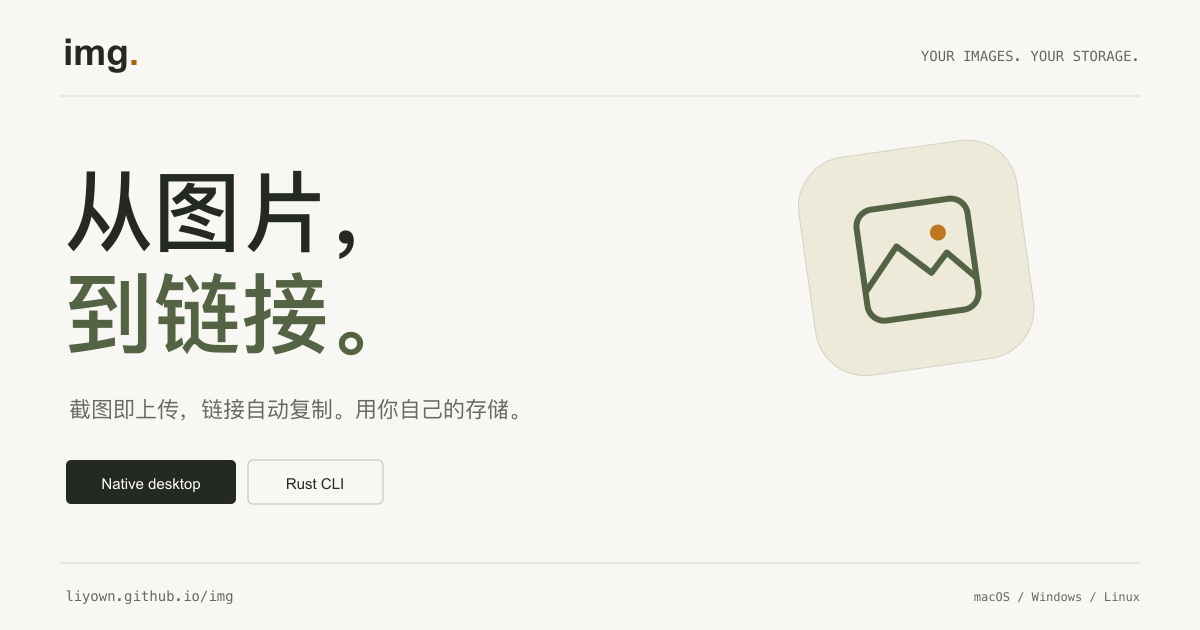
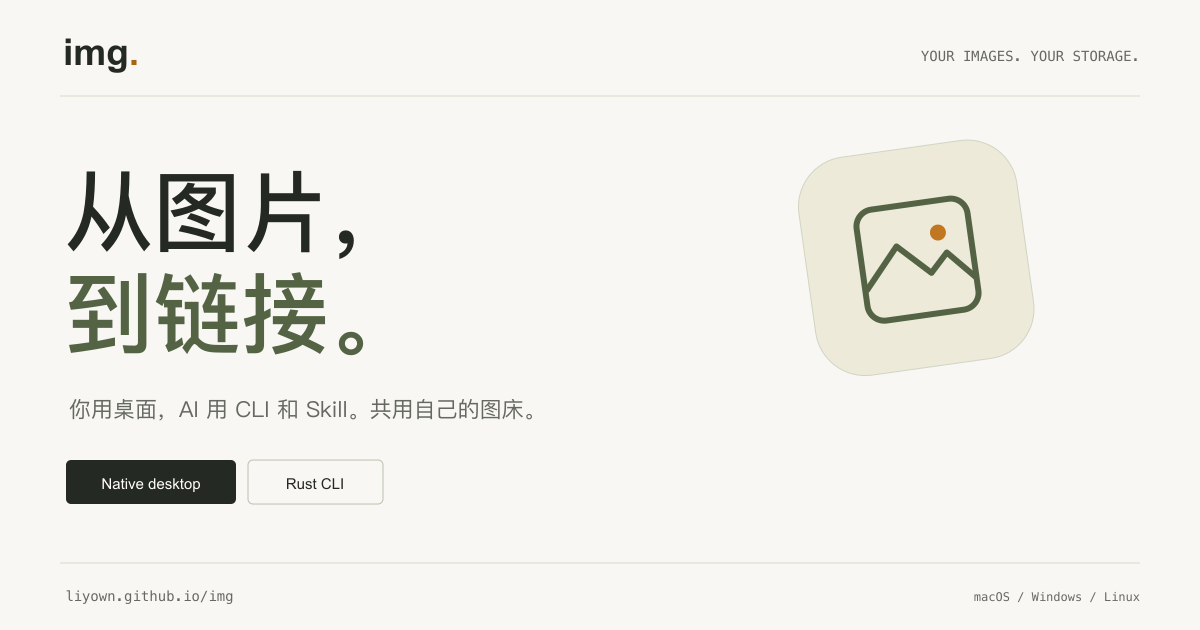
docs: clarify switching benefits and native CLI agent workflows

Changed region(s): [[0.0617, 0.6333, 0.4317, 0.6635]]

diff --git a/README.en.md b/README.en.md
@@ -1,8 +1,8 @@
 <div align="center">
   <img src="site/public/favicon.svg" width="72" alt="img">
   <h1>img</h1>
-  <p><strong>Capture an image. Paste a link. Keep writing.</strong></p>
-  <p>Upload to your own storage and get links ready for your next post.<br>A native Rust desktop app + standalone CLI for macOS, Windows, and Linux.</p>
+  <p><strong>Upload a screenshot and paste the link.</strong></p>
+  <p>Use desktop shortcuts yourself. Give your AI agent a native CLI and Skill.<br>Both use the same storage configuration on macOS, Windows, and Linux.</p>
   <p><a href="https://liyown.github.io/img/en/install/#gui"><strong>Download desktop</strong></a> · <a href="https://liyown.github.io/img/en/install/#cli">Download CLI</a> · <a href="https://liyown.github.io/img/en/">Website</a> · <a href="https://liyown.github.io/img/en/docs/">Docs</a> · <a href="README.md">中文</a></p>
 
 [![Desktop release](https://github.com/liyown/img/actions/workflows/desktop-release.yml/badge.svg)](https://github.com/liyown/img/actions/workflows/desktop-release.yml)
@@ -13,22 +13,35 @@
 
 [![img native gallery: find images, preview, and copy links; macOS demo](site/public/screenshots/gallery.webp)](https://liyown.github.io/img/en/install/#gui)
 
-## Fewer steps between an image and your next sentence
+## Why switch to img
 
-Whether you write blog posts, take notes, or maintain documentation, configure your storage once and turn screenshots into links you can paste.
+Capture an image, press the upload shortcut, and paste the copied link into your article. When an AI agent writes the article, it can call img to upload local screenshots or charts and insert the returned URLs. Both workflows use the same storage configuration.
 
-- **A shortcut from screenshot to link.** Upload your clipboard or capture a screenshot with a global shortcut. The resulting link is copied in your chosen format.
-- **Your images, your storage, your domain.** Connect Cloudflare R2, S3, Alibaba Cloud OSS, GitHub, or a custom HTTP host with your own public image URL.
-- **One tool for your desktop and scripts.** A native Rust / GPUI interface bundles the matching CLI. The standalone CLI works without the desktop app.
-- **Find the images you already uploaded.** Search a local gallery, switch between grid and list, and copy links in batches across search results. Clearing local records preserves original files and remote images.
-- **Handle a whole article.** Batch upload, optimize, resize, strip JPEG EXIF, or use `img rewrite` to upload Markdown images and replace their references.
-- **Works with your editor and agents.** Typora custom commands, a PicGo-compatible local service, structured JSON output, and a companion Agent Skill.
+The Rust / GPUI desktop app includes the matching native CLI. For terminal and automation work, download the command alone: it runs without the desktop app or Node.js. Uploads, image processing, and storage configuration share an implementation across both entry points.
 
-> img is an upload client: bring your own storage service and publicly accessible image URL. The gallery manages local records; remote file management and the PicGo plugin ecosystem are outside the current scope.
+Keep your existing R2, S3, OSS, GitHub, or HTTP host and public domain. Links in old articles remain unchanged. You can try the CLI with a few images before moving your everyday uploads to img.
+
+Find previous desktop uploads in the local gallery, preview them, switch between grid and list, and copy links in batches across search results. Use `img rewrite` to upload a whole article's images and replace their references. Batch uploads also support optimization, resizing, and JPEG EXIF removal.
+
+## Give your AI agent an upload tool
+
+When an agent creates a chart or uses a local screenshot, it can upload the file through the native CLI and put the returned link into the article. The repository includes an installable [img-uploader Skill](skills/img-uploader) for assistants that support Agent Skills and can run local commands.
+
+```sh
+npx skills add liyown/img --skill img-uploader
+```
+
+Install the CLI and configure your default storage, then give the agent a task such as:
+
+> Upload ./assets/chart.png to my default image host and insert the returned Markdown image link into article.md.
+
+The Skill checks files and configuration, then uploads with `--format json --no-copy`. The CLI returns per-file results and exit codes, preserving successful URLs when other uploads fail. Your agent uses the configured storage without needing credentials in the conversation or controlling an upload window.
+
+[Read the Skill workflow](skills/img-uploader/SKILL.md) · [CLI JSON output and exit codes](docs/cli.en.md#json-output)
 
 ## Download and start
 
-**[Get the latest stable release →](https://liyown.github.io/img/en/install/#gui)** No Rust, Go, or build tools required.
+[Download the latest stable release](https://liyown.github.io/img/en/install/#gui). You do not need Rust, Go, or build tools.
 
 | System | Desktop, including CLI | Standalone CLI |
 | --- | --- | --- |
@@ -82,7 +95,7 @@ Example output; the URL depends on your storage configuration:
 
 [R2 / OSS / GitHub setup examples](docs/cli.en.md#setup) · [Full command reference](docs/cli.en.md)
 
-## Fit it into your workflow
+## Keep your editor
 
 | Your workflow | With img |
 | --- | --- |
@@ -92,11 +105,13 @@ Example output; the URL depends on your storage configuration:
 | Article migration | Use `img rewrite` for local and remote images while preserving alt text and titles |
 | Agent workflows | Read structured CLI JSON and reuse configured storage with the companion Skill |
 
-```sh
-npx skills add liyown/img --skill img-uploader
-```
-
 [Integration examples](docs/cli.en.md#integrations) · [Agent Skill](skills/img-uploader) · [GitHub Action](action.yml)
+
+### Moving from another uploader
+
+Add your existing storage provider to img, upload one image, and check the returned URL before changing your editor's upload command. Provider settings need to be added again. img does not automatically import another app's configuration or gallery, or change links in existing articles.
+
+If you rely on remote file management or PicGo plugins, keep your current tool for those tasks. The img gallery manages local records; clearing them preserves original files and remote images. You can start by using img only for agent and script uploads.
 
 ## Bring your storage
 
@@ -116,4 +131,4 @@ cargo test --locked --workspace
 
 Explore the [shared upload core](crates/img-core), [standalone CLI](crates/img-cli), and [native desktop app](desktop). [Build and release guide](desktop/RELEASING.md)
 
-If img saves you the upload-and-copy routine, give it a star or share it with someone who writes.
+Tell us which editor or agent you connected to img, and which step still gets in your way.

diff --git a/site/src/content/docs/en/integrations.md b/site/src/content/docs/en/integrations.md
@@ -52,4 +52,12 @@ img upload cover.png --format json --no-copy --progress
 
 stdout contains final JSON; stderr carries separate progress events. `--progress` accepts one file only. Check the exit code and each file's `success`. Failures retain `error` and may include `error_code`, `http_status`, and `retryable`. A progress value of 100% is not server-confirmed success.
 
-The repository's [SKILL.md](https://github.com/liyown/img/blob/main/skills/img-uploader/SKILL.md) documents agent usage; the [GitHub Action](https://github.com/liyown/img/blob/main/action.yml) supports workflows. The Action installer still fetches a published CLI, which may currently be the older Go version. To use Rust 0.3.0 in CI, build the CLI from a reviewed commit as described in the installation guide, then invoke img rewrite directly. Pinning the Action commit does not pin its downloaded CLI version.
+Install the companion Skill for assistants that support Agent Skills and can run local commands:
+
+```sh
+npx skills add liyown/img --skill img-uploader
+```
+
+Install the native CLI and configure your default storage first. Your agent can then upload local images and insert the returned links into an article. The Skill checks files and configuration, reads per-file JSON results, and preserves successful links when other uploads fail. It reuses existing storage settings without requiring credentials in the conversation. Read the full [Skill workflow](https://github.com/liyown/img/blob/main/skills/img-uploader/SKILL.md).
+
+The [GitHub Action](https://github.com/liyown/img/blob/main/action.yml) uploads and rewrites Markdown images in a workflow. Its installer fetches the latest released CLI; pinning the Action commit does not pin the downloaded CLI. For a reproducible version, download and verify a specific CLI release in your workflow, then call `img rewrite`.

diff --git a/site/src/content/docs/zh/integrations.md b/site/src/content/docs/zh/integrations.md
@@ -52,4 +52,12 @@ img upload cover.png --format json --no-copy --progress
 
 stdout 是最终 JSON，stderr 是独立的进度事件。`--progress` 限单文件；脚本应同时判断退出码与各文件的 `success`。失败结果保留 `error`，并可提供 `error_code`、`http_status`、`retryable`。不要只凭进度达到 100% 就判断上传成功。
 
-仓库的 [SKILL.md](https://github.com/liyown/img/blob/main/skills/img-uploader/SKILL.md) 提供 Agent 使用说明；[GitHub Action](https://github.com/liyown/img/blob/main/action.yml) 提供工作流集成。此 Action 的安装步骤仍获取已发布的 CLI，因此当前可能使用旧 Go 版本。若要在 CI 使用 Rust 0.3.0，请先按安装指南从已审核提交构建 CLI，再直接调用 img rewrite；不要把固定 Action 提交等同于固定 CLI 版本。
+安装配套 Skill，让支持 Agent Skills 且能执行本地命令的助手使用 img：
+
+```sh
+npx skills add liyown/img --skill img-uploader
+```
+
+先安装原生 CLI 并配置默认存储源，再让 Agent 上传本地图片、把返回的链接写进文章。Skill 会检查文件与配置，读取逐文件 JSON 结果，保留部分成功的链接。Agent 复用已有配置，无需在对话中输入存储密钥。完整流程见 [SKILL.md](https://github.com/liyown/img/blob/main/skills/img-uploader/SKILL.md)。
+
+[GitHub Action](https://github.com/liyown/img/blob/main/action.yml) 可在工作流中转存 Markdown 图片。安装步骤获取最新已发布 CLI；固定 Action 提交不会固定下载的 CLI 版本。需要可复现版本时，在工作流中下载并校验指定 CLI 发行包，再调用 `img rewrite`。
